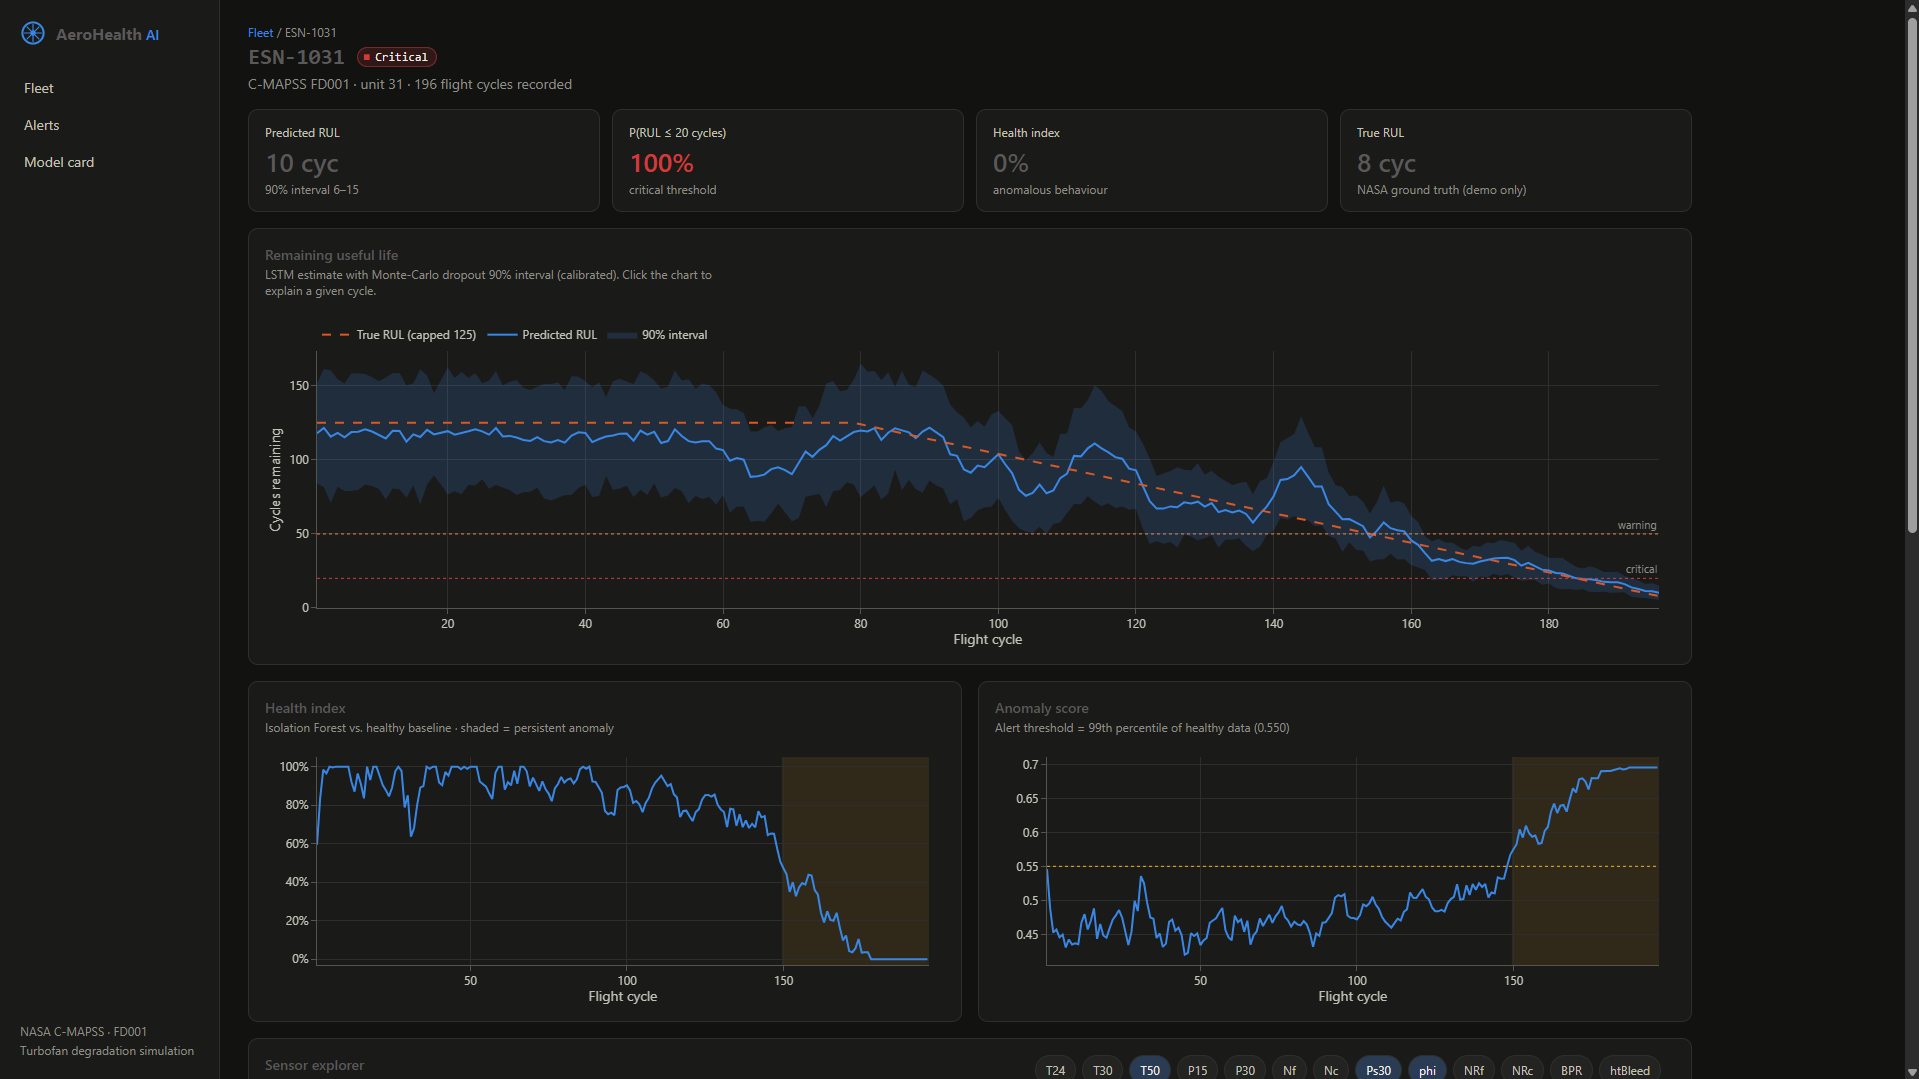
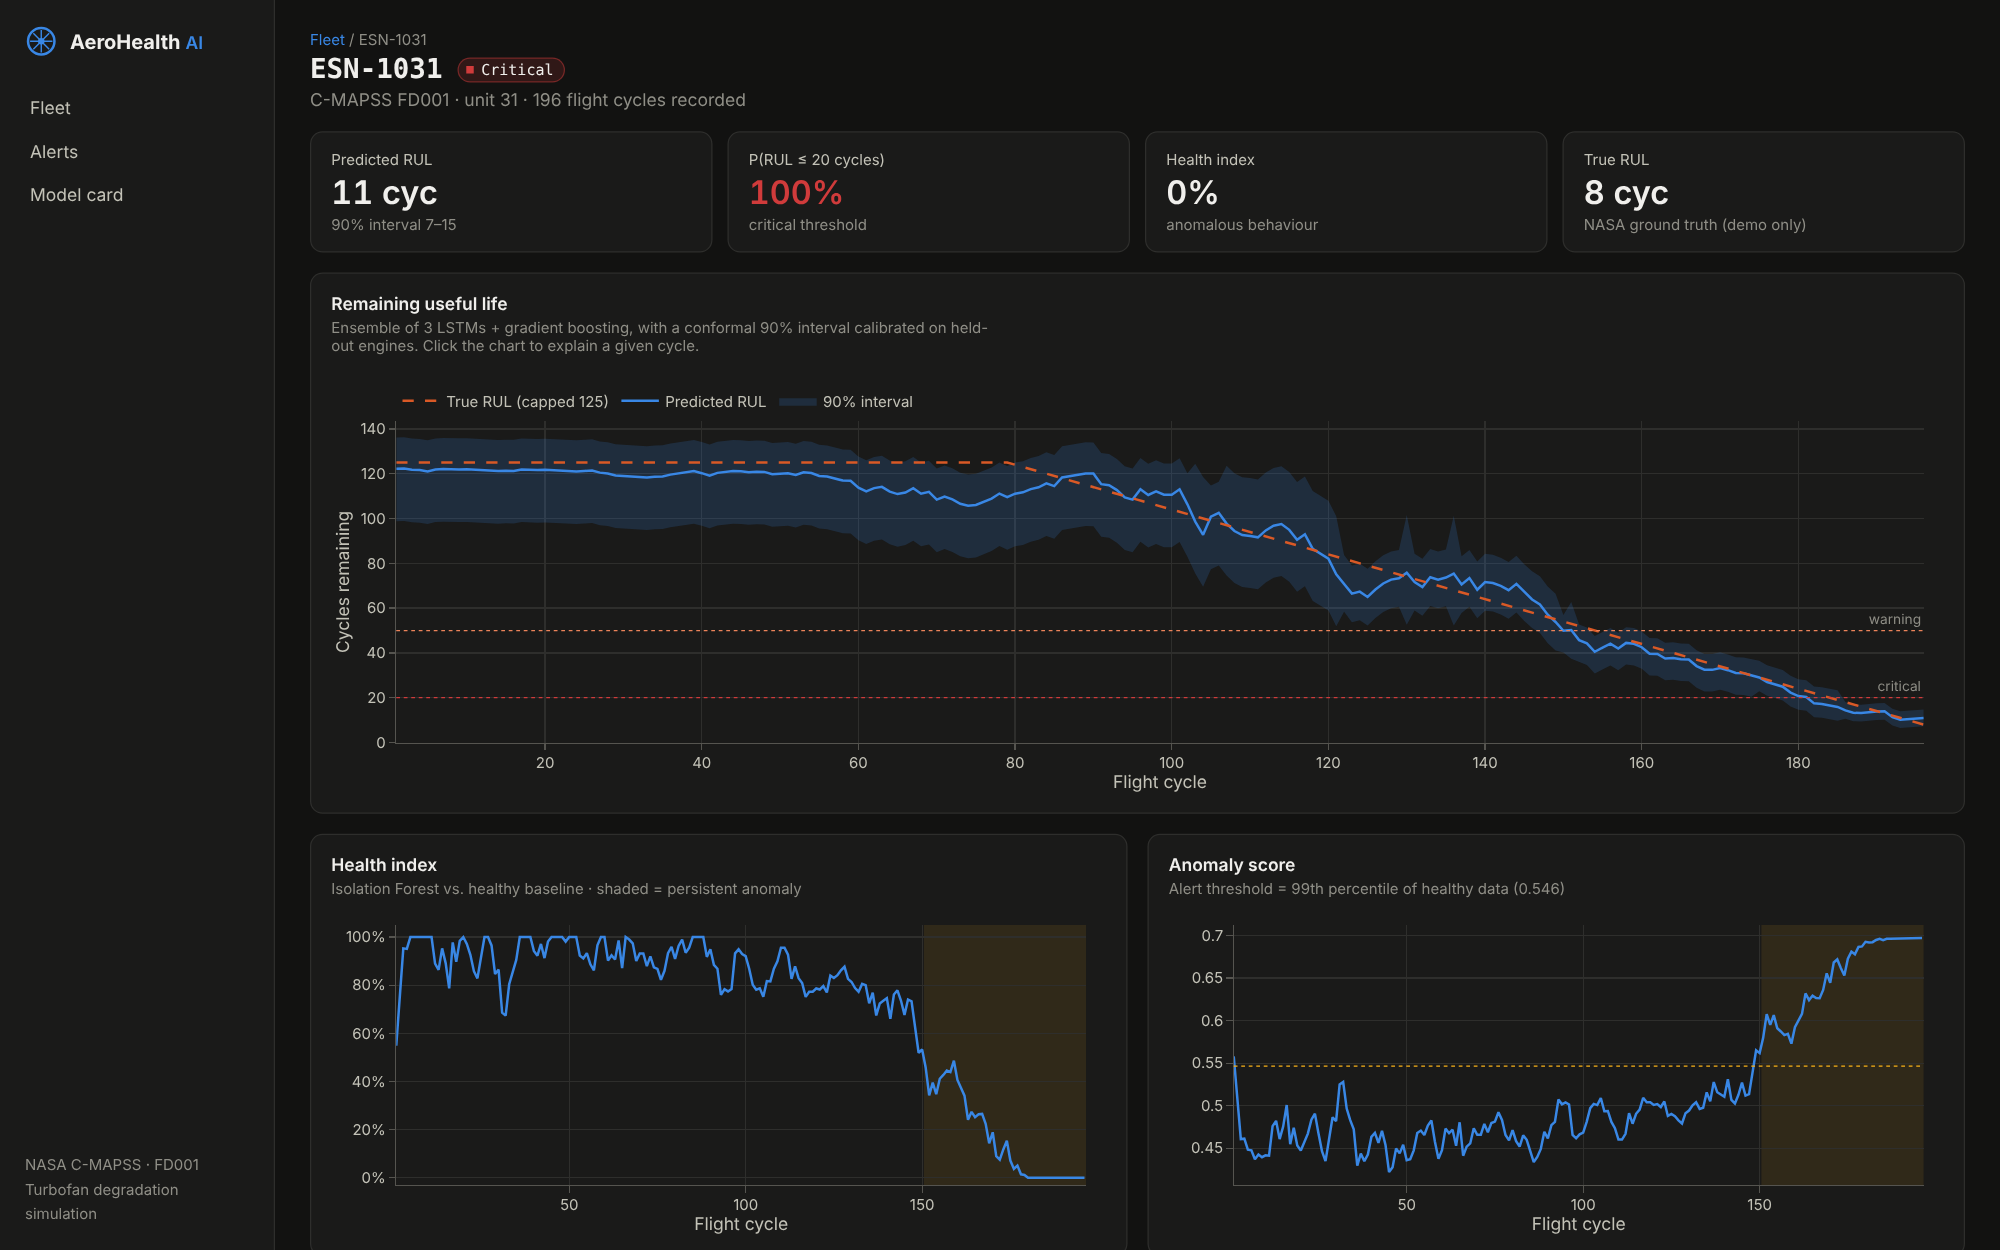
Update screenshots to v2, add Hugging Face demo deployment

diff --git a/deploy/huggingface/push.py b/deploy/huggingface/push.py
@@ -1,0 +1,42 @@
+"""Assemble the Hugging Face Space from the repo and upload it.
+
+Usage (locally or from CI):
+    HF_TOKEN=hf_xxx HF_SPACE=<user>/aerohealth-ai python deploy/huggingface/push.py
+"""
+from __future__ import annotations
+
+import os
+import shutil
+import tempfile
+from pathlib import Path
+
+from huggingface_hub import HfApi
+
+ROOT = Path(__file__).resolve().parents[2]
+HERE = Path(__file__).resolve().parent
+INCLUDE = ["frontend", "backend/aerohealth", "backend/scripts", "backend/artifacts", "backend/requirements.txt"]
+IGNORE = shutil.ignore_patterns("node_modules", "dist", "__pycache__", "*.pyc", "*.db")
+
+
+def main() -> None:
+    space = os.environ["HF_SPACE"]
+    api = HfApi(token=os.environ["HF_TOKEN"])
+    api.create_repo(space, repo_type="space", space_sdk="docker", exist_ok=True)
+    with tempfile.TemporaryDirectory() as tmp:
+        out = Path(tmp)
+        for item in INCLUDE:
+            src, dst = ROOT / item, out / item
+            dst.parent.mkdir(parents=True, exist_ok=True)
+            if src.is_dir():
+                shutil.copytree(src, dst, ignore=IGNORE)
+            else:
+                shutil.copy2(src, dst)
+        shutil.copy2(HERE / "Dockerfile", out / "Dockerfile")
+        shutil.copy2(HERE / "README.md", out / "README.md")
+        api.upload_folder(repo_id=space, repo_type="space", folder_path=out,
+                          commit_message="Deploy from GitHub", delete_patterns="*")
+    print(f"Deployed: https://huggingface.co/spaces/{space}")
+
+
+if __name__ == "__main__":
+    main()

diff --git a/backend/aerohealth/api/main.py b/backend/aerohealth/api/main.py
@@ -6,7 +6,12 @@ import threading
 from collections import Counter
 from contextlib import asynccontextmanager
 
+import os
+from pathlib import Path
+
 from fastapi import Depends, FastAPI, HTTPException, Query
+from fastapi.responses import FileResponse
+from fastapi.staticfiles import StaticFiles
 from fastapi.middleware.cors import CORSMiddleware
 from sqlalchemy import and_, func, select
 from sqlalchemy.orm import Session
@@ -225,3 +230,17 @@ def acknowledge(alert_id: int, db: Session = Depends(get_db)):
     a.acknowledged = True
     db.commit()
     return _alert_out(a, a.engine.serial)
+
+
+# ---------------------------------------------------------------------------
+# Optional: serve the built dashboard from the API (single-container demo).
+STATIC_DIR = Path(os.getenv("STATIC_DIR", ""))
+if os.getenv("STATIC_DIR") and (STATIC_DIR / "index.html").exists():
+    app.mount("/assets", StaticFiles(directory=STATIC_DIR / "assets"), name="assets")
+
+    @app.get("/{path:path}", include_in_schema=False)
+    def spa(path: str):
+        if path.startswith("api/"):
+            raise HTTPException(404, "Not found")
+        f = STATIC_DIR / path
+        return FileResponse(f if path and f.is_file() else STATIC_DIR / "index.html")

diff --git a/deploy/huggingface/README.md b/deploy/huggingface/README.md
@@ -1,0 +1,19 @@
+---
+title: AeroHealth AI
+emoji: ✈
+colorFrom: blue
+colorTo: gray
+sdk: docker
+app_port: 7860
+pinned: true
+short_description: Predictive maintenance for turbofan engines (NASA C-MAPSS)
+---
+
+# AeroHealth AI — live demo
+
+Engine health monitoring on the NASA C-MAPSS FD001 test fleet: Remaining Useful Life forecast with
+conformal 90 % intervals, anomaly detection, SHAP explanations and risk-based alerts.
+
+Source code, method and results: https://github.com/stevvvvvv/Aerohealth-AI
+
+The fleet resets to its initial state whenever the Space restarts.

diff --git a/README.md b/README.md
@@ -161,6 +161,16 @@ cd ../frontend
 npm install && npm run dev                      # http://localhost:5173
 ```
 
+### Live demo (Hugging Face Spaces)
+
+`deploy/huggingface/` packages dashboard + API + SQLite into one container (the fleet is seeded at
+build time). To (re)deploy:
+
+```bash
+pip install huggingface_hub
+HF_TOKEN=hf_xxx HF_SPACE=<user>/aerohealth-ai python deploy/huggingface/push.py
+```
+
 ---
 
 ## API
